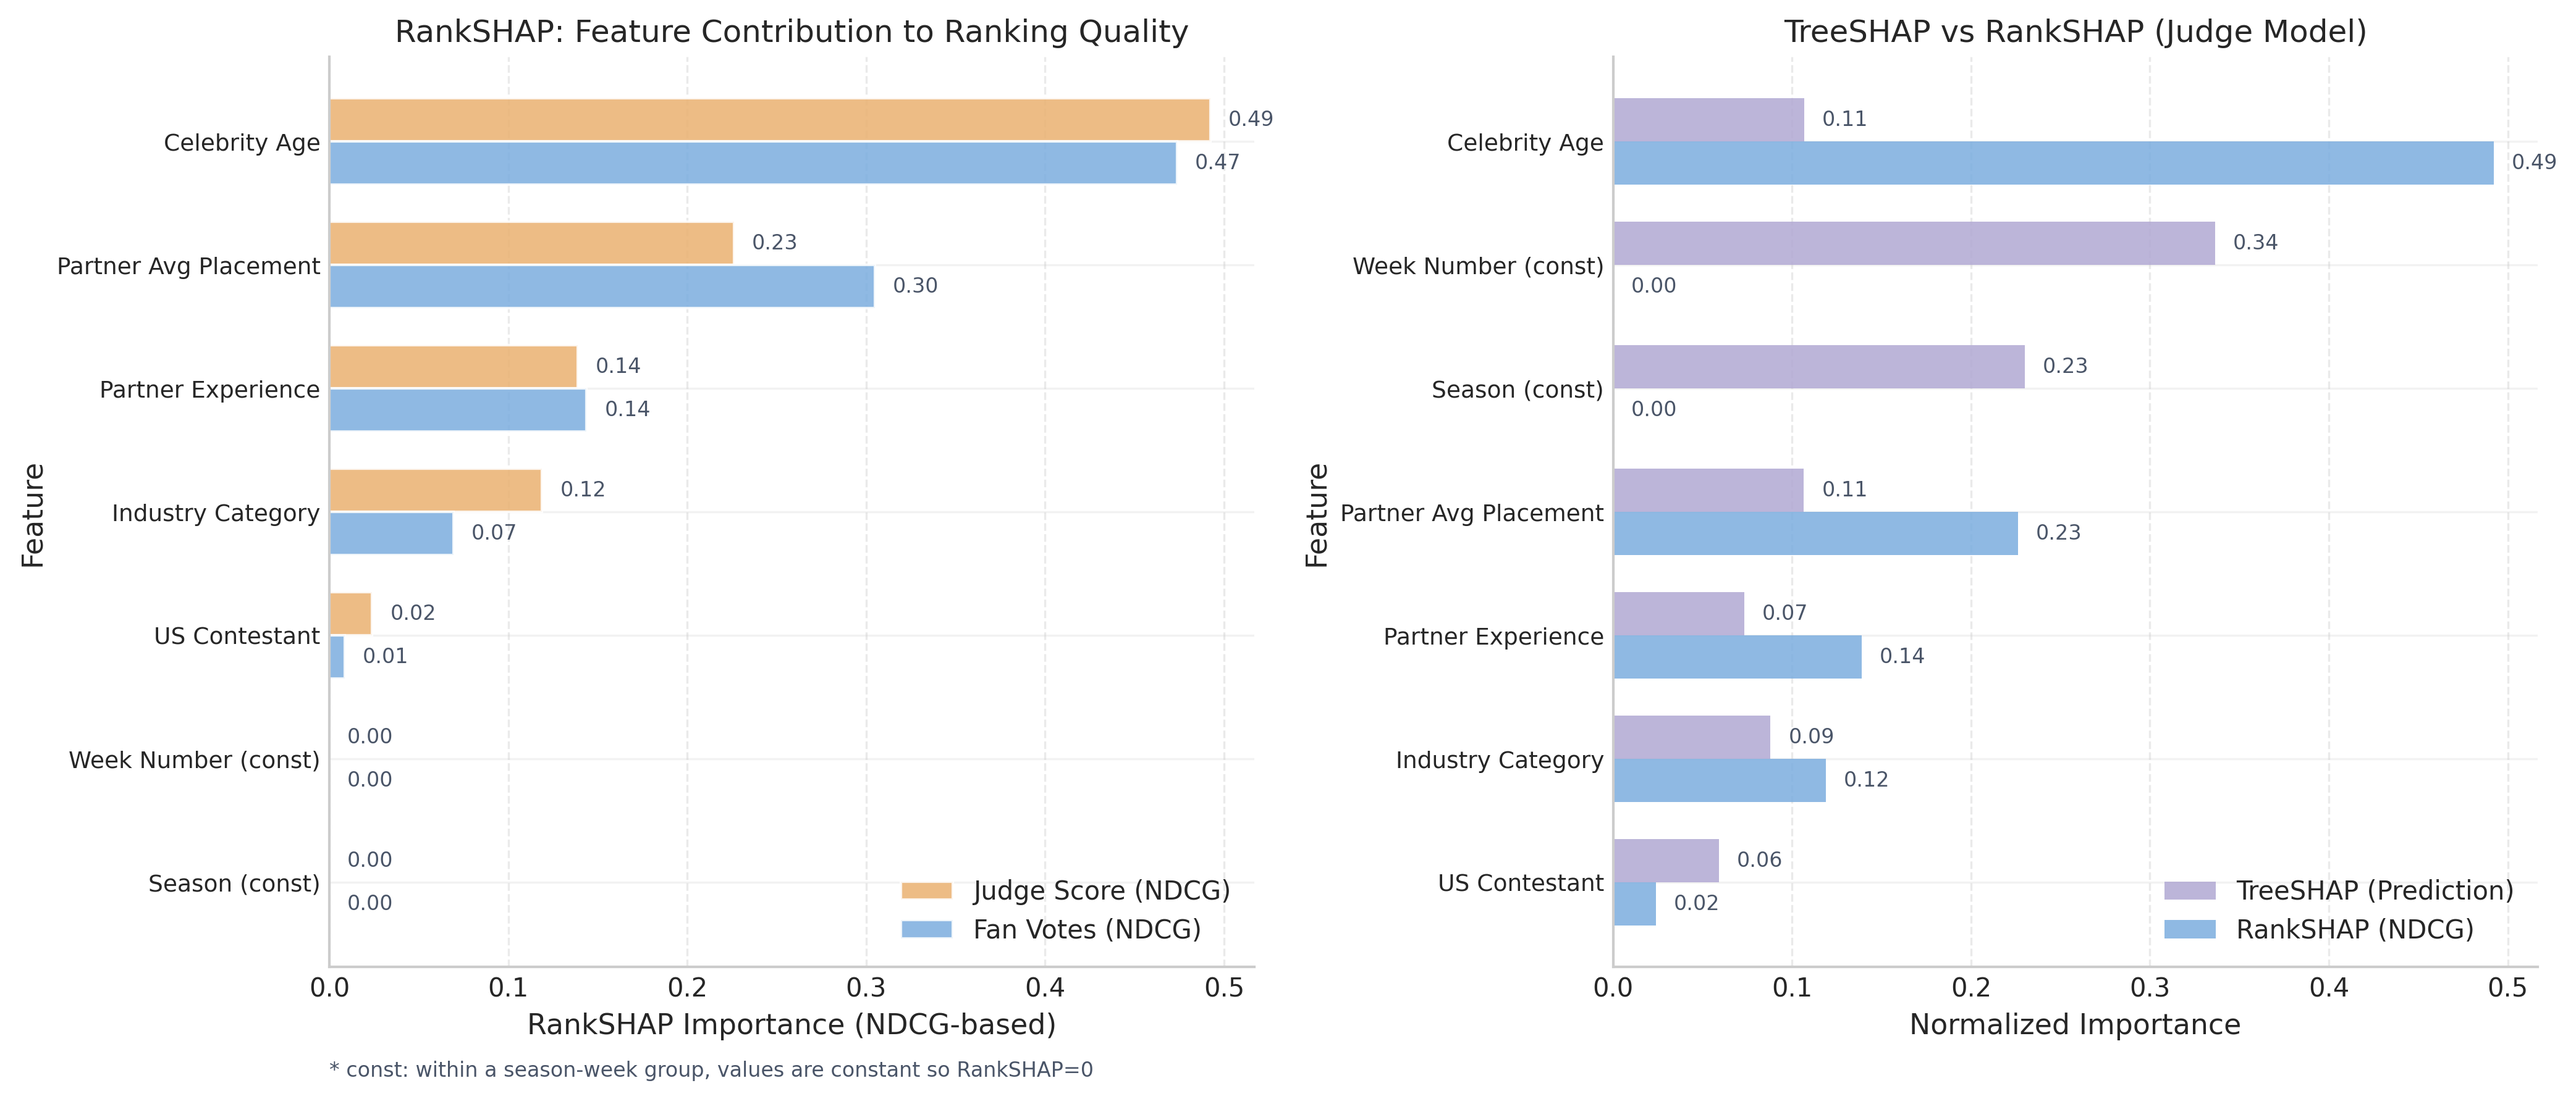
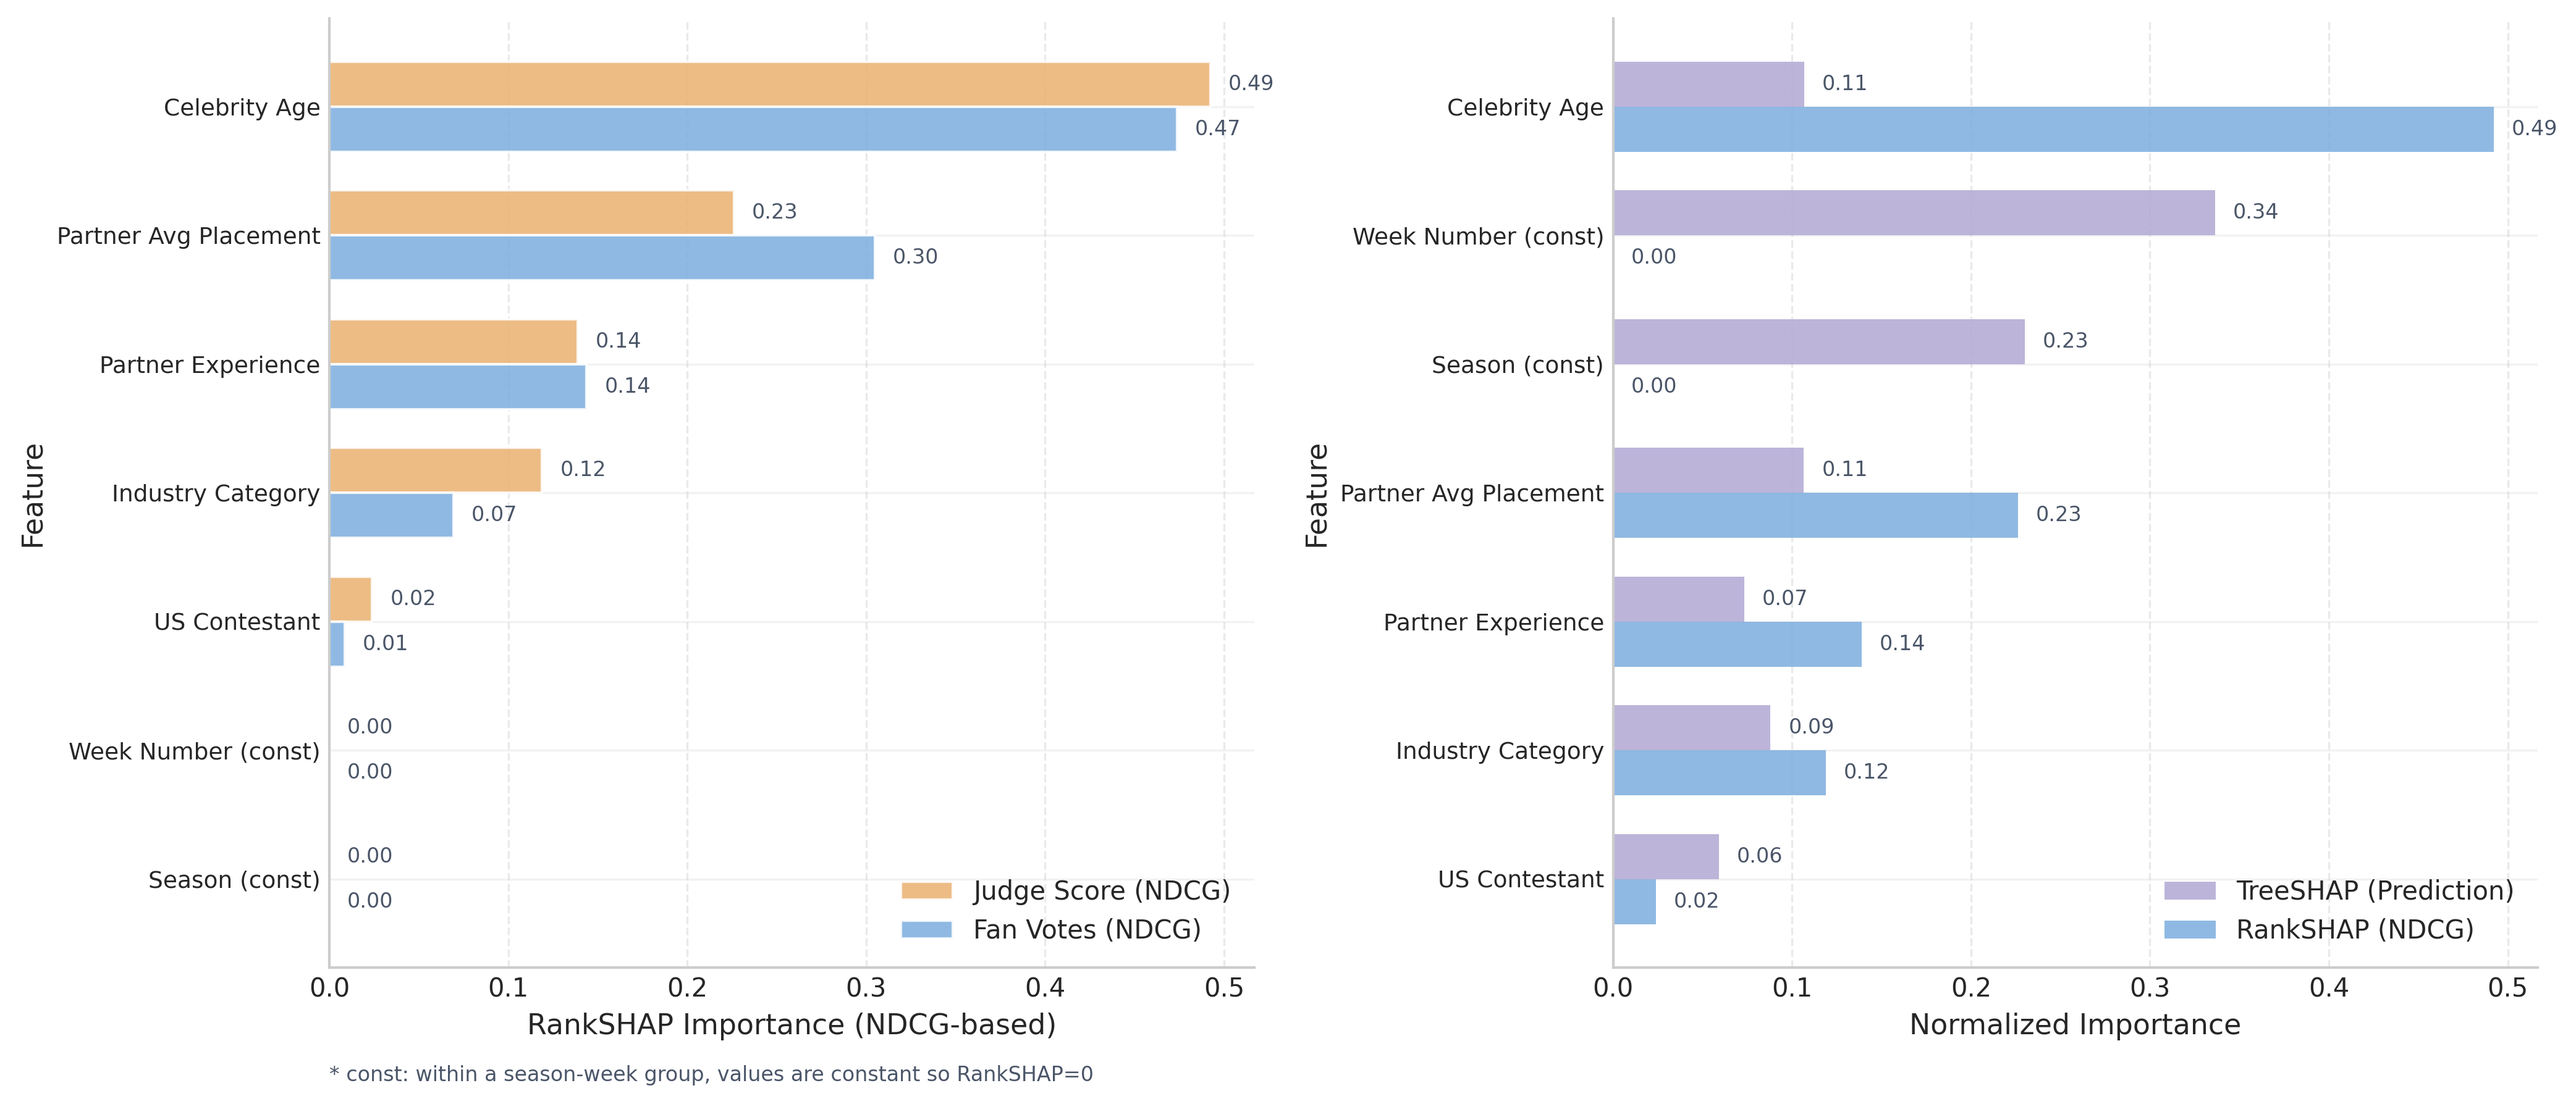
update Q3

diff --git a/solution/Q3.py b/solution/Q3.py
@@ -1303,7 +1303,7 @@ class Q3Visualizer:
             show=False,
             plot_size=None
         )
-        axes[0].set_title("Judge Score Model", fontsize=12)
+        # MCM图表不显示标题
         
         # 右图: 粉丝模型
         plt.sca(axes[1])
@@ -1314,7 +1314,7 @@ class Q3Visualizer:
             show=False,
             plot_size=None
         )
-        axes[1].set_title("Fan Votes Model", fontsize=12)
+        # MCM图表不显示标题
         
         plt.tight_layout()
         plt.savefig(OUTPUT_DIR / "fig6_shap_summary.png", dpi=300, bbox_inches="tight")
@@ -1429,7 +1429,7 @@ class Q3Visualizer:
         
         ax1.set_xlabel("RankSHAP Importance (NDCG-based)", fontsize=11)
         ax1.set_ylabel("Feature", fontsize=11)
-        ax1.set_title("RankSHAP: Feature Contribution to Ranking Quality", fontsize=12)
+        # MCM图表不显示标题
         ax1.set_yticks(y)
         ax1.set_yticklabels(features_display, fontsize=9)
         ax1.invert_yaxis()
@@ -1478,7 +1478,7 @@ class Q3Visualizer:
         
         ax2.set_xlabel("Normalized Importance", fontsize=11)
         ax2.set_ylabel("Feature", fontsize=11)
-        ax2.set_title("TreeSHAP vs RankSHAP (Judge Model)", fontsize=12)
+        # MCM图表不显示标题
         ax2.set_yticks(y2)
         ax2.set_yticklabels(features_cmp_display, fontsize=9)
         ax2.invert_yaxis()

diff --git a/doc/Q4.md b/doc/Q4.md
@@ -1,0 +1,296 @@
+# 2026 MCM Problem C - 问题四：新投票系统设计
+
+## 一、题面（Problem Statement）
+
+### 原题要求
+
+> Propose another system using fan votes and judge scores each week that you believe is more "fair" (or "better" in some other way such as making the show more exciting for the fans). Provide support for why your approach should be adopted by the show producers.
+
+### 中文翻译
+
+设计一个每周使用粉丝投票和评委评分的**新系统**，使其更加：
+- **"公平"**（Fair）——体现专业性与技术水平
+- 或以其他方式更**"出色"**——例如让节目更吸引粉丝、更具悬念等
+
+### 核心要求
+
+1. **提出创新方案**：设计一套新的投票组合系统
+2. **提供充分论证**：说明为何该方案值得节目制作方采纳
+3. **可操作性**：方案需具备实际可行性
+
+### 设计约束（隐含）
+
+- 需要使用现有数据：评委评分 + 粉丝投票估算值
+- 需与现有两种方法（排名法、百分比法）进行对比
+- 需考虑节目的商业属性（观众参与度、收视率等）
+
+---
+
+## 二、解题思路（Solution Approach）
+
+### 总体设计理念
+
+以**"公平性（专业性）、民意性（粉丝意愿）、观赏性（结果悬念）"**为多目标，构建**动态权重投票系统**，融合**"底部二选一"**与**"复活权"**机制，平衡技术与娱乐属性，提出可落地的优化方案。
+
+---
+
+### 2.1 多目标优化框架
+
+#### 2.1.1 三维目标函数
+
+##### 目标①：公平性（Fairness）——最小化争议选手晋级率
+
+**争议选手定义**：单周评委得分排名**末30%**但粉丝投票排名**前30%**的选手
+
+**晋级率计算**：某赛季争议选手晋级周数占其参赛总周数的比例
+
+**目标函数**：
+$$\min F_{fair} = \frac{\sum_{s=1}^{34} \sum_{i \in D_s} \mathbb{I}(i_{advance})}{|D_s| \cdot T_s}$$
+
+其中：
+- $D_s$：第s赛季争议选手集合
+- $\mathbb{I}(i_{advance})$：晋级指示函数（晋级=1，淘汰=0）
+- $T_s$：第s赛季比赛周数
+
+##### 目标②：民意性（Popularity）——最大化粉丝投票与最终排名的相关性
+
+采用**斯皮尔曼秩相关系数**（Spearman's ρ）衡量相关性，避免线性假设
+
+**目标函数**：
+$$\max F_{pop} = \rho(R_{fan}, R_{final})$$
+
+其中：
+- $R_{fan}$：选手粉丝投票降序排名
+- $R_{final}$：新系统下的最终降序排名
+- $\rho \in [-1, 1]$，越接近1说明民意体现越充分
+
+##### 目标③：观赏性（Excitement）——最大化单周组合得分方差，提升结果悬念
+
+**组合得分定义**：
+$$S_i = w_J \cdot S_{J,i} + w_F \cdot S_{F,i}$$
+
+其中：
+- $w_J$：评委权重
+- $w_F$：粉丝权重
+- $S_{J,i}$：选手i标准化评委得分
+- $S_{F,i}$：选手i标准化粉丝投票占比
+
+**目标函数**：
+$$\max F_{exc} = \frac{1}{T}\sum_{t=1}^{T} Var(S_{i,t})$$
+
+其中：
+- $Var(S_{i,t})$：第t周所有选手组合得分的方差
+- T：赛季总周数
+- 方差越大说明排名悬念越强
+
+#### 2.1.2 约束条件
+
+| 约束类型 | 具体内容 | 数学表达 |
+|----------|----------|----------|
+| **权重约束** | 评委与粉丝投票权重∈[0,1]，且之和为1 | $0 \leq w_J \leq 1$，$0 \leq w_F \leq 1$，$w_J + w_F = 1$ |
+| **排名分布** | 新系统排名分布与历史最优赛季相近 | $KL(P_{new} \| P_{opt}) \leq 0.1$ |
+| **工程约束** | 规则简洁可执行，计算复杂度低 | 单周计算复杂度 ≤ O(n) |
+
+---
+
+### 2.2 动态权重设计（核心创新点）
+
+#### 2.2.1 Sigmoid时间权重方案
+
+**核心逻辑**：权重随赛季进度动态变化，前期高评委权重，后期高粉丝权重
+
+**权重公式**：
+$$w_J(t) = \frac{k}{1 + e^{-\beta(t - t_0)}} + C$$
+$$w_F(t) = 1 - w_J(t)$$
+
+其中 $t$ 为赛季进度：
+$$t = \frac{\text{当前周数}}{\text{赛季总周数}} \in [0, 1]$$
+
+**核心参数**：
+
+| 参数 | 初始值 | 含义 |
+|------|--------|------|
+| $t_0$ | 0.65 | 权重转折节点（对应赛季中后期） |
+| $\beta$ | 15 | 权重变化速率（越大过渡越陡峭） |
+| $k$ | 0.4 | 控制权重范围 |
+| $C$ | 0.3 | 确保 $w_J(t) \in [0.3, 0.7]$ |
+
+> **注**：上述参数需通过历史数据回测校准
+
+#### 2.2.2 参数校准流程
+
+**校准方法**：
+1. 固定目标函数（公平性最小化、民意性与观赏性最大化）
+2. 遍历参数组合：
+   - $t_0 \in [0.6, 0.7]$
+   - $\beta \in [10, 20]$
+   - $k \in [0.3, 0.5]$
+   - $C \in [0.2, 0.4]$
+
+**校准标准**：
+- 筛选期 $F_{fair} \leq 0.05$
+- 决战期 $F_{pop} \geq 0.6$
+- 相邻周权重变化 ≤ 0.1
+- 组合得分方差 ≥ 0.3
+
+#### 2.2.3 分阶段权重分配
+
+| 阶段 | 赛季进度 | 评委权重 $w_J$ | 粉丝权重 $w_F$ | 设计目的 |
+|------|----------|----------------|----------------|----------|
+| **筛选期** | $t < 0.5$ | 0.7 | 0.3 | 快速淘汰技术不达标选手，保证节目质量 |
+| **过渡期** | $0.5 \leq t \leq 0.8$ | 平滑过渡 | 平滑过渡 | 逐步提升粉丝参与度 |
+| **决战期** | $t > 0.8$ | 0.3 | 0.7 | 将冠军决定权交给粉丝，最大化互动性 |
+
+---
+
+### 2.3 辅助机制设计
+
+#### 2.3.1 复活权机制
+
+**触发条件**：
+- 技术最优选手（评委得分第一：$R_i^J = 1$）
+- 落入淘汰区（单周组合得分排名末20%：$R_{final,i} \geq 0.8n$）
+
+**机制规则**：
+- 评委拥有**一票否决权**
+- **每赛季限用1次**
+- 保护技术强手不被粉丝投票"误杀"
+
+#### 2.3.2 底部二选一机制
+
+**规则**：延续第28季规则，由评委从末两位选手中淘汰1人
+
+**作用**：平衡专业性与结果不确定性
+
+#### 2.3.3 优先级约束
+
+```
+复活权 > 底部二选一
+```
+
+复活后，底部二选一从剩余选手末两位中触发
+
+---
+
+### 2.4 方案验证
+
+#### 2.4.1 历史回测
+
+将新系统应用于**争议赛季**（如第27季Bobby Bones、第11季Bristol Palin），验证：
+- 争议选手晋级率是否降低
+- 观赏性是否提升
+
+#### 2.4.2 优化迭代
+
+若某指标不达标（如公平性 ≥ 0.1）：
+- 调整权重参数（如增大筛选期 $w_J$ 至 0.75）
+- 调整辅助机制阈值（如复活权触发门槛降至排名末25%）
+
+**迭代次数**：3-5轮
+
+**达标标准**：
+
+| 指标 | 目标值 |
+|------|--------|
+| 公平性 | ≤ 0.08 |
+| 民意性 | ≥ 0.6 |
+| 观赏性 | ≥ 0.3 |
+
+#### 2.4.3 指标对比
+
+与原有两种方法对比：
+
+| 方法 | 公平性 | 民意性 | 观赏性 |
+|------|--------|--------|--------|
+| 排名法 | ? | ? | ? |
+| 百分比法 | ? | ? | ? |
+| **新系统** | ≤0.08 | ≥0.6 | ≥0.3 |
+
+#### 2.4.4 可行性评估
+
+| 评估维度 | 要求 | 验证方式 |
+|----------|------|----------|
+| **计算效率** | 单周10名选手计算耗时 ≤ 10毫秒 | Python模拟 |
+| **执行难度** | 核心规则 ≤ 3条，观众易理解 | 规则简化 |
+| **成本控制** | 无需新增数据采集环节 | 使用现有数据 |
+
+---
+
+### 2.5 敏感性分析与稳健性保障
+
+#### 2.5.1 敏感性分析
+
+**权重参数敏感性**：
+- 固定其他参数，调整 $\beta \in [10, 20]$
+- 观察目标指标变化率（≤ 15% 为稳健）
+
+**辅助机制敏感性**：
+- 调整复活权触发门槛（末20% → 末25%）
+- 调整底部二选一淘汰概率权重占比（$w_J : w_F = 0.6 : 0.4$）
+- 验证指标波动 ≤ 10%
+
+#### 2.5.2 稳健性措施
+
+| 措施 | 说明 |
+|------|------|
+| **异常值处理** | 粉丝投票异常值（超出3σ）采用截断处理，确保权重修正不受极端值影响 |
+| **多场景适配** | 针对赛季总周数差异（6-12周），自动调整 $t$ 的计算口径，保持分阶段权重逻辑一致 |
+
+---
+
+## 三、方案优势总结
+
+### 3.1 对比现有方法
+
+| 维度 | 排名法 | 百分比法 | **新系统** |
+|------|--------|----------|------------|
+| 公平性 | 中等（不敏感极端值） | 低（放大粉丝优势） | **高**（动态平衡） |
+| 民意性 | 低 | 高 | **高**（决战期放权） |
+| 观赏性 | 低 | 中 | **高**（方差最大化） |
+| 灵活性 | 固定 | 固定 | **动态调整** |
+
+### 3.2 核心创新点
+
+| 创新点 | 说明 |
+|--------|------|
+| **动态权重** | Sigmoid函数实现权重平滑过渡，契合比赛节奏 |
+| **多目标优化** | 同时兼顾公平性、民意性、观赏性 |
+| **复活权机制** | 保护技术强手，避免"劣币驱逐良币" |
+| **参数可调** | 可根据历史数据校准最优参数 |
+
+### 3.3 对制作方的价值
+
+| 价值维度 | 具体收益 |
+|----------|----------|
+| **节目质量** | 筛选期高评委权重确保技术底线 |
+| **粉丝互动** | 决战期高粉丝权重激发投票热情 |
+| **话题度** | 复活权、底部二选一制造悬念与讨论 |
+| **公信力** | 减少"Bobby Bones式"争议，提升节目口碑 |
+
+---
+
+## 四、向制作方的推荐理由
+
+### 4.1 解决核心痛点
+
+新系统直接回应了节目历史上的主要争议：
+- **Jerry Rice问题**（S2）：筛选期高评委权重可早期淘汰技术短板
+- **Bobby Bones问题**（S27）：动态权重+复活权防止纯人气选手夺冠
+
+### 4.2 平衡多方利益
+
+| 利益方 | 诉求 | 新系统如何满足 |
+|--------|------|----------------|
+| **评委** | 专业性被尊重 | 筛选期主导权 + 复活权 |
+| **粉丝** | 投票有意义 | 决战期决定权 |
+| **制作方** | 收视率 + 话题度 | 悬念设计 + 争议减少 |
+
+### 4.3 可操作性强
+
+- **规则简洁**：3条核心规则，观众易理解
+- **成本可控**：无需新增设备或数据采集
+- **实时可行**：计算复杂度低，满足直播需求
+
+---
+
+*本文档基于2026 MCM Problem C第四问整理，提出"多目标优化+动态权重"的创新投票系统设计方案。*
